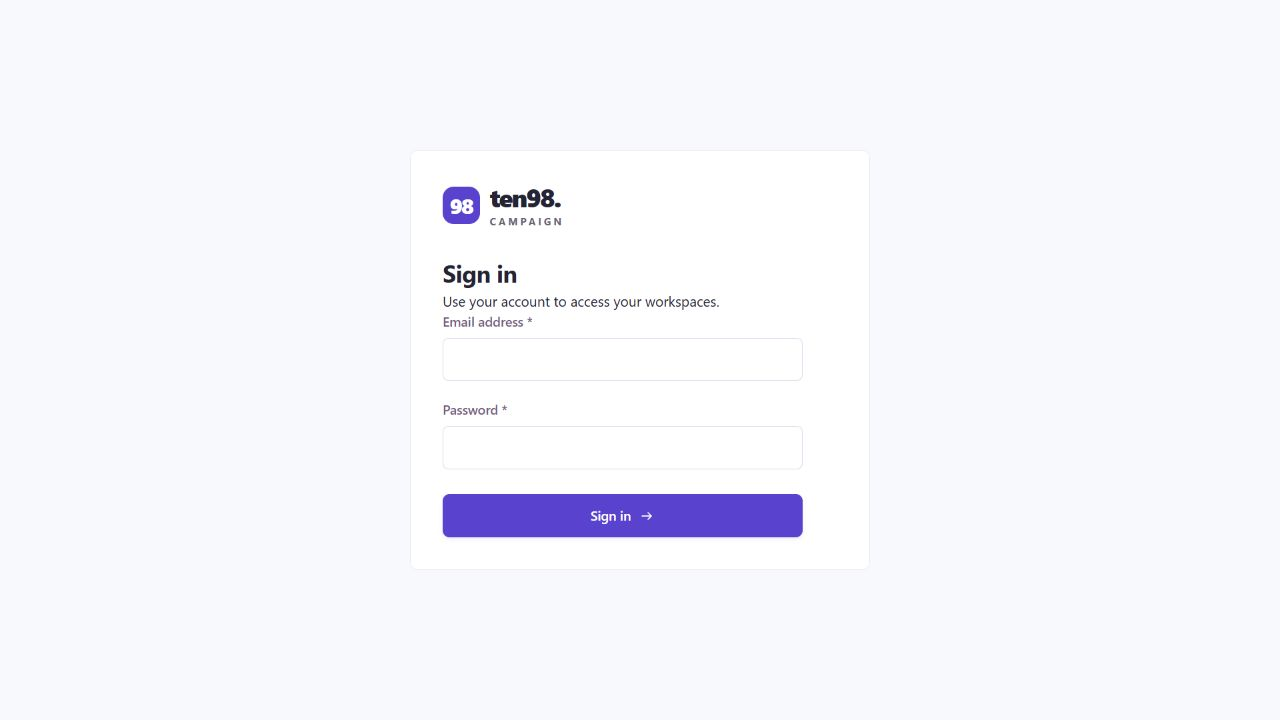
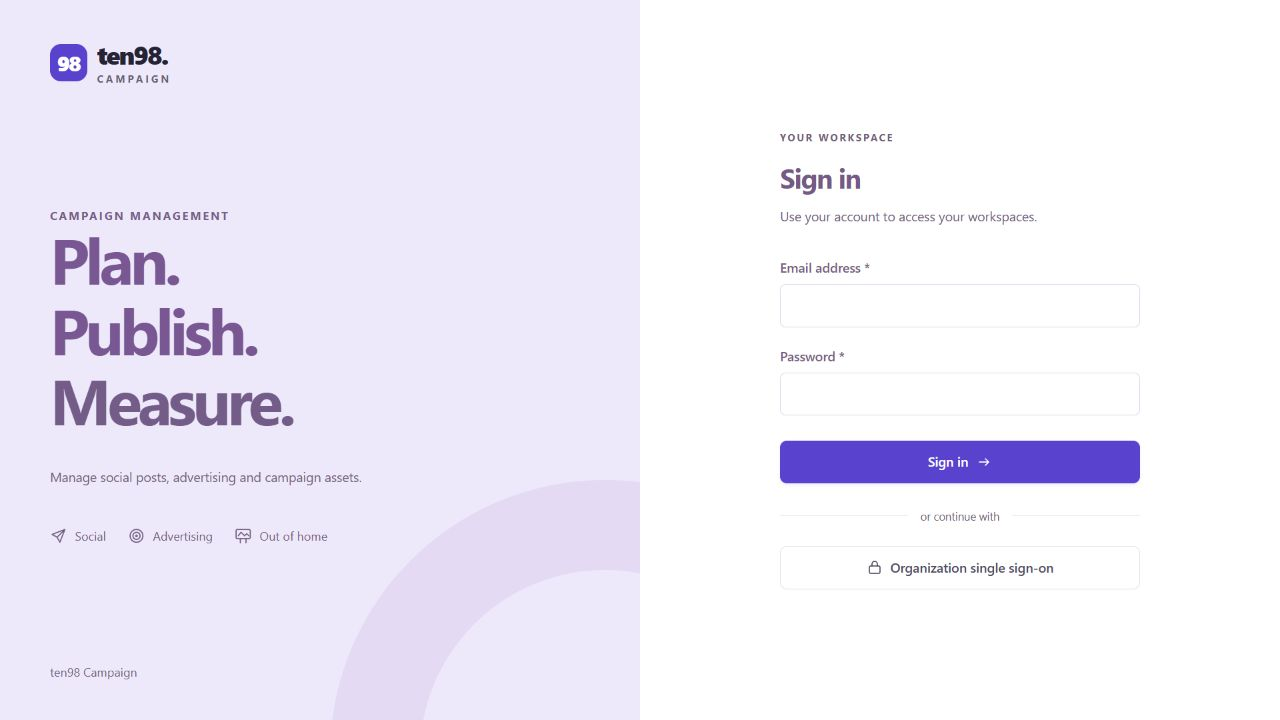
Restore the split sign-in layout for release 0.8.11

diff --git a/src/main.tsx b/src/main.tsx
@@ -495,7 +495,13 @@ function Field({ label, multiline, ...props }: { label: string; multiline?: bool
 function Select({ label, name, value, options }: { label: string; name: string; value: string; options: (string | string[])[] }) { return <label className="field"><span>{label}</span><select name={name} defaultValue={value}>{options.map(o => { const [v, text] = typeof o === 'string' ? [o, title(o)] : o; return <option key={v} value={v}>{text}</option>; })}</select></label>; }
 function ConnectionEmpty({ onSettings, subject }: { onSettings: () => void; subject: string }) { return <section className="panel"><Empty icon="link" title={'Connect your ' + subject} action={<button className="button primary" onClick={onSettings}>Open connection settings <Icon name="arrow" size={15}/></button>}>Open Integrations to configure Zernio and map this project to your brand’s profile.</Empty></section>; }
 function Auth({ session, inviteToken = '', error, busy, onSubmit }: { session: any; inviteToken?: string; error: string; busy: boolean; onSubmit: (data: any) => void }) {
-  return <main className="auth-shell"><section className="auth-form"><div className="auth-form-inner"><a className="brand" href="/"><span className="brand-mark">98</span><span><strong>ten98.</strong><small>CAMPAIGN</small></span></a><h1>{session.setupRequired ? 'Create owner account' : 'Sign in'}</h1><p>{session.setupRequired ? 'Set up this campaign manager.' : 'Use your account to access your workspaces.'}</p><form onSubmit={e => { e.preventDefault(); const values: any = Object.fromEntries(new FormData(e.currentTarget)); values.sample = values.sample === 'on'; onSubmit(values); }}>{session.setupRequired && <Field label="Your name" name="name" autoComplete="name" required maxLength={120}/>}<Field label="Email address" name="email" type="email" autoComplete="username" required/><Field label="Password" name="password" type="password" autoComplete={session.setupRequired ? 'new-password' : 'current-password'} required minLength={session.setupRequired ? 12 : 1} maxLength={128}/>{session.setupRequired && <><small className="field-help">Use at least 12 characters.</small><label className="checkbox-label"><input type="checkbox" name="sample" defaultChecked/>Include a sample project to explore</label></>}{error && <p className="form-error" role="alert">{error}</p>}<button className="button primary full" disabled={busy}>{busy ? 'Signing in…' : session.setupRequired ? 'Create owner account' : 'Sign in'}<Icon name="arrow" size={16}/></button></form>{session.oidcEnabled && <><div className="or-divider">or continue with</div><a className="button full" href={'/api/auth/oidc/start' + (inviteToken ? '?invite=' + encodeURIComponent(inviteToken) : '')}><Icon name="lock" size={16}/>Organization single sign-on</a></>}</div></section></main>;
+  return <main className="auth-shell auth-split">
+    <section className="auth-story" aria-label="Campaign overview">
+      <a className="brand" href="/"><span className="brand-mark">98</span><span><strong>ten98.</strong><small>CAMPAIGN</small></span></a>
+      <div><span className="eyebrow">CAMPAIGN MANAGEMENT</span><h1>Plan. <br/>Publish. <br/><em>Measure.</em></h1><p>Manage social posts, advertising and campaign assets.</p><div className="auth-channels"><span><Icon name="send"/>Social</span><span><Icon name="target"/>Advertising</span><span><Icon name="billboard"/>Out of home</span></div></div>
+      <small>ten98 Campaign</small><div className="auth-orbit" aria-hidden="true"/>
+    </section>
+    <section className="auth-form"><div className="auth-form-inner"><div className="eyebrow">YOUR WORKSPACE</div><h2>{session.setupRequired ? 'Create owner account' : 'Sign in'}</h2><p>{session.setupRequired ? 'Create the owner account for this app.' : 'Use your account to access your workspaces.'}</p><form onSubmit={e => { e.preventDefault(); const values: any = Object.fromEntries(new FormData(e.currentTarget)); values.sample = values.sample === 'on'; onSubmit(values); }}>{session.setupRequired && <Field label="Your name" name="name" autoComplete="name" required maxLength={120}/>}<Field label="Email address" name="email" type="email" autoComplete="username" required/><Field label="Password" name="password" type="password" autoComplete={session.setupRequired ? 'new-password' : 'current-password'} required minLength={session.setupRequired ? 12 : 1} maxLength={128}/>{session.setupRequired && <><small className="field-help">Use at least 12 characters.</small><label className="checkbox-label"><input type="checkbox" name="sample" defaultChecked/>Include a sample project to explore</label></>}{error && <p className="form-error" role="alert">{error}</p>}<button className="button primary full" disabled={busy}>{busy ? 'Signing in…' : session.setupRequired ? 'Create owner account' : 'Sign in'}<Icon name="arrow" size={16}/></button></form>{session.oidcEnabled && <><div className="or-divider">or continue with</div><a className="button full" href={'/api/auth/oidc/start' + (inviteToken ? '?invite=' + encodeURIComponent(inviteToken) : '')}><Icon name="lock" size={16}/>Organization single sign-on</a></>}</div></section></main>;
 }
 
 createRoot(document.getElementById('root')!).render(<AppBoundary><App/></AppBoundary>);

diff --git a/src/styles.css b/src/styles.css
@@ -46,3 +46,38 @@
 .ad-details-discard .button-wrap{margin-top:12px}
 .ad-details ul{padding-left:20px;font-size:12px;line-height:1.7;margin-bottom:20px}
 @media(max-width:760px){.ad-details{padding:20px}.ad-details .button{white-space:normal}.ad-details>.panel-heading{flex-wrap:wrap}}
+
+.auth-split{display:grid;align-items:stretch;grid-template-columns:minmax(0,1fr) minmax(0,1fr);background:white}
+.auth-story{min-width:0;background:#eee9fa;padding:40px 50px;display:flex;flex-direction:column;justify-content:space-between;isolation:isolate;position:relative;overflow:hidden}
+.auth-story>.brand{padding:0}
+.auth-story>div:not(.auth-orbit){padding:60px 0}
+.auth-story .eyebrow{color:#766088;font-size:11px;letter-spacing:2px;margin-bottom:25px}
+.auth-story h1{font-size:clamp(40px,5vw,76px);line-height:1.1;letter-spacing:-4px;font-weight:750;color:#785793}
+.auth-story h1 em{color:#745c89;font-style:normal}
+.auth-story p{font-size:13px;color:#736180;margin-top:30px;line-height:1.9}
+.auth-channels{display:flex;flex-wrap:wrap;gap:22px;margin-top:38px;color:#736081;font-size:12px}
+.auth-channels span{display:flex;align-items:center;gap:8px}
+.auth-channels svg{width:17px;height:17px}
+.auth-story>small{font-size:12px;color:#71637a}
+.auth-orbit{position:absolute;height:550px;width:550px;right:-240px;bottom:-310px;border:90px solid #e4daf3;border-radius:50%;z-index:-1}
+.auth-split>.auth-form{display:flex;align-items:center;justify-content:center;min-width:0;max-width:none;margin:0;padding:45px;border:0;border-radius:0}
+.auth-split .auth-form h2{font-size:27px;letter-spacing:-1px;color:#755a85}
+@media(max-width:1200px){.auth-story,.auth-split>.auth-form{padding:35px}.auth-story h1{letter-spacing:-2.5px}}
+@media(max-width:960px){.auth-split{grid-template-columns:minmax(0,.9fr) minmax(0,1.1fr)}.auth-story,.auth-split>.auth-form{padding:30px}.auth-story h1{font-size:45px}.auth-channels{gap:13px}}
+@media(max-width:760px){
+  .auth-split{grid-template-columns:minmax(0,1fr);align-content:start}
+  .auth-story{padding:25px 25px 30px}
+  .auth-story>.brand{gap:8px}
+  .auth-story .brand-mark{height:31px;width:31px;font-size:18px;border-radius:9px}
+  .auth-story .brand strong{font-size:22px}
+  .auth-story .brand small{font-size:8px;letter-spacing:2px}
+  .auth-story>div:not(.auth-orbit){padding:35px 0 0}
+  .auth-story h1{font-size:42px;letter-spacing:-1.5px;line-height:1.12}
+  .auth-story h1 br{display:none}
+  .auth-story h1 em{display:block}
+  .auth-story .eyebrow{font-size:9px;letter-spacing:1.5px;margin-bottom:13px}
+  .auth-story p,.auth-story>small,.auth-channels{display:none}
+  .auth-orbit{width:300px;height:300px;border-width:50px;right:-130px;bottom:-220px}
+  .auth-split>.auth-form{padding:35px 25px 45px}
+  .auth-split .auth-form h2{font-size:25px}
+}

diff --git a/README.md b/README.md
@@ -2,7 +2,7 @@
 
 An open-source, self-hosted campaign manager for social publishing, online advertising, out-of-home media, transactional email, SMS, WhatsApp, digital assets, and campaign planning. Workspaces contain projects; workspace membership controls access to every project in that workspace.
 
-Version 0.8.10 includes social publishing, advertising, OOH, Drive DAM, direct campaigns, a **Unified inbox** with two-way Twilio SMS and approved WhatsApp template replies, and campaign short links, QR codes and website tracking. Google Calendar supports shared planning; Broadsign handles OOH proposals/bookings; Google Maps shows locations; OpenRouter prepares optional content drafts. Cloudflare sends transactional email with an optional external reply address; WhatsApp broadcasts and conversations use Zernio. Voice calling and a receiving email inbox are excluded. The application is [MIT licensed](LICENSE). Provider accounts, API access, message charges, media spending, and model usage remain subject to their providers' terms and charges.
+Version 0.8.11 includes social publishing, advertising, OOH, Drive DAM, direct campaigns, a **Unified inbox** with two-way Twilio SMS and approved WhatsApp template replies, and campaign short links, QR codes and website tracking. Google Calendar supports shared planning; Broadsign handles OOH proposals/bookings; Google Maps shows locations; OpenRouter prepares optional content drafts. Cloudflare sends transactional email with an optional external reply address; WhatsApp broadcasts and conversations use Zernio. Voice calling and a receiving email inbox are excluded. The application is [MIT licensed](LICENSE). Provider accounts, API access, message charges, media spending, and model usage remain subject to their providers' terms and charges.
 
 ![Campaign ads manager](docs/ads-verification.png)
 

diff --git a/CONTRIBUTING.md b/CONTRIBUTING.md
@@ -2,7 +2,7 @@
 
 Use Node.js 24, run `npm ci`, then `npm run dev`. Verify changes with `npm run build` and `npm test` before opening a pull request.
 
-Keep `main` and `dev` as the two permanent branches. Develop on `dev`, promote tested changes to `main` through a pull request, then fast-forward `dev` to the merge result so both branches stay synchronized. Keep `dev` when merging; do not delete it as a feature branch.
+Keep `main` and `dev` as the two permanent branches. Start each feature on a temporary `codex/` branch from the updated `dev` branch and merge its tested pull request into `dev`. Promote `dev` to `main` through a pull request, then fast-forward `dev` to the merge result so both branches stay synchronized. Tag and release the promoted `main` commit. Delete the merged feature branch; keep `dev`.
 
 Keep changes focused. Reuse the existing provider helpers and native platform features before adding dependencies. Every nontrivial behavior change needs a small runnable regression check. Provider tests must use mocks, never real spending or credentials.
 

diff --git a/docs/verification.md b/docs/verification.md
@@ -1,4 +1,12 @@
-# ten98 Campaign v0.8.10 — verification
+# ten98 Campaign v0.8.11 — verification
+
+## Sign-in layout restoration
+
+Version 0.8.11 restores the original lavender side panel and white sign-in form, with short, factual copy. The split layout is scoped to sign-in and initial setup; invitation, workspace-access and error screens retain their existing card layout. Authentication handlers, validation and OIDC invitation continuation are unchanged.
+
+All **499 automated checks** and the production frontend/type check pass. Browser checks used an isolated synthetic account: initial setup display, an incorrect-password alert, successful local sign-in, sign-out, and the conditional single sign-on link. At a measured 390px viewport the layout stacks without horizontal overflow; at 1280px both columns fill the viewport height. No live identity-provider login is claimed.
+
+![Restored side-panel sign-in layout](sign-in-verification.png)
 
 ## Current expansion and acceptance limits
 
